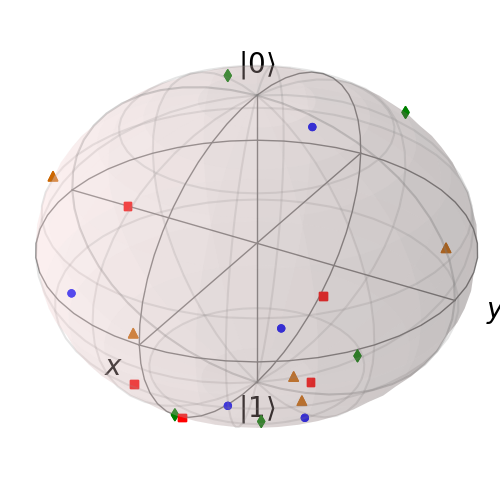
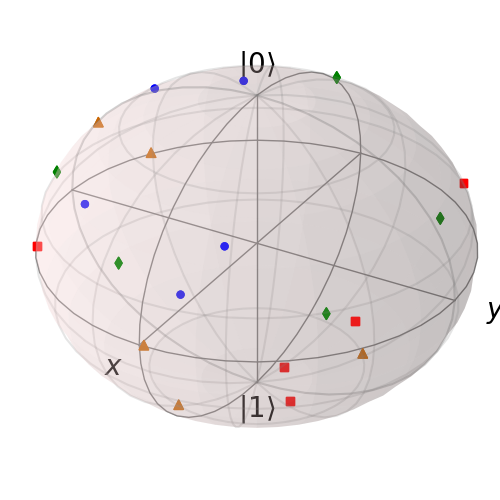
training.py major modification, class Training created BlochSphere plot in training.py

diff --git a/qnn/embedding/training.py b/qnn/embedding/training.py
@@ -1,47 +1,86 @@
-from qnn.embedding.optimization import cost, g_finitedifference#, g_parametershift
+from qnn.embedding.optimization import cost, g_finitedifference, g_parametershift
 from qnn.embedding.circuits import Circuits
+from typing import List, Optional, Union
+from numpy import ndarray
 
-import time
-import progressbar
+import cirq
 import qutip as qt
 import matplotlib.pyplot as plt
 
-def train(circuits, lr, epsilon, epoch, params):
-    #params = np.random.normal(0, 2*np.pi, 80)
-    cs_func = Circuits(depth=4)
-    sample_vectors = cs_func.sample(cs=circuits, theta=params)
 
-    be = qt.Bloch()
-    for i in range(len(sample_vectors)):
-        be.add_states(qt.Qobj(inpt=sample_vectors[i]), kind='point')
-    be.save(name='/qnn/embedding/data_tmp/before.png', format='png', dirc=None)
-    #be.show()
+class Training:
 
-    print(cost(sample_vectors))
-    cost_plot, epoch_plot = [], []
-    bar_func = progressbar.ProgressBar(maxval=epoch)
+    def __init__(self,
+                 circuits: List[cirq.Circuit],
+                 learning_rate: float,
+                 epsilon: float,
+                 epoch: int,
+                 initial_parameters: Union[ndarray, int, float, complex],
+                 plot_bloch: Optional[bool] = True,
+                 parameter_shift: Optional[bool] = False):
+        self.circuits = circuits
+        self.learning_rate = learning_rate
+        self.epsilon = epsilon
+        self.epoch = epoch
+        self.initial_parameters = initial_parameters
+        self.plot_bloch = plot_bloch
+        self.parameter_shift = parameter_shift
 
-    for o in range(epoch):
-      for i in range(len(params)):
-        params[i] = params[i].real - lr*g_finitedifference(i, circuits, params, epsilon).real
-        #params[i] = lr*params[i] + (1-lr)*(g_finitedifference(i, circuits, params, epsilon))**2
-        #params[i] = lr*params[i] + (1-lr)*(g_parametershift(i, circuits, params))**2
-        #print(params[i]-ols)
-      sample_vectors = cs_func.sample(circuits, params)
-      cost_plot.append(cost(sample_vectors).real)
-      print('Epoch:', o+1, 'Cost:', cost_plot[o])
-      epoch_plot.append(o)
-      if o != 1 or 0:
-          if cost_plot[o] < cost_plot[o-1]:
-              lr = lr + lr*2
-          else:
-              lr = lr
+    def train(self):
+        cs_func = Circuits(depth=4)
+        sample_vectors = cs_func.sample(cs=self.circuits, theta=self.initial_parameters)
 
-    af = qt.Bloch()
-    for i in range(len(sample_vectors)):
-        af.add_states(qt.Qobj(inpt=sample_vectors[i]), kind='point')
-    af.save(name='/qnn/embedding/data_tmp/after.png', format='png', dirc=None)
-    #af.show()
+        if self.plot_bloch:
+            be = qt.Bloch()
+            for i in range(len(sample_vectors)):
+                be.add_states(qt.Qobj(inpt=sample_vectors[i]), kind='point')
+            be.save(name='/Users/usuario/Desktop/QIT/QNNs/qnn/embedding/data_tmp/before.png', format='png')
+            #be.show()
 
-    plt.plot(epoch_plot, cost_plot)
-    plt.show()
+        self.cost_plot, self.epoch_plot, self.params_plot = [], [], []
+        #bar_func = progressbar.ProgressBar(maxval=self.epoch)
+
+        params = self.initial_parameters
+        lr = self.learning_rate
+        for o in range(self.epoch):
+            for i in range(len(params)):
+                if self.parameter_shift:
+                    params[i] = lr*params[i] + (1-lr)*(g_parametershift(i, self.circuits, params))**2
+                else:
+                    params[i] = params[i].real - lr * g_finitedifference(i, self.circuits, params, self.epsilon).real
+
+            sample_vectors = cs_func.sample(self.circuits, params)
+            self.cost_plot.append(cost(sample_vectors))
+            self.epoch_plot.append(o)
+            self.params_plot.append(params)
+            print('Epoch:', o, 'Cost:', self.cost_plot[o])
+
+            if o != 1 or 0:
+                if self.cost_plot[o] < self.cost_plot[o - 1]:
+                    lr = lr + lr*2
+                else:
+                    lr = lr
+
+        if self.plot_bloch:
+            af = qt.Bloch()
+            for i in range(len(sample_vectors)):
+                af.add_states(qt.Qobj(inpt=sample_vectors[i]), kind='point')
+            af.save(name='/Users/usuario/Desktop/QIT/QNNs/qnn/embedding/data_tmp/after.png', format='png')
+            #af.show()
+
+        plt.plot(self.epoch_plot, self.cost_plot)
+        plt.show()
+        return self.cost_plot
+
+    def minima(self):
+        min_i = 0
+        min_cost = self.cost_plot[0]
+        for i in range(len(self.cost_plot)):
+            if self.cost_plot[i] < min_cost:
+                min_cost = self.cost_plot[i]
+                min_i = i
+
+        print('min COST:', min_cost)
+        print('min EPOCH:', min_i)
+        print('min PARAM:', self.params_plot[min_i])
+        return self.params_plot[min_i], min_cost

diff --git a/qnn/embedding/embeddings.py b/qnn/embedding/embeddings.py
@@ -1,29 +1,31 @@
 ##
 import numpy as np
 
-from qnn.embedding.generate_data import GenerateData
+from qnn.embedding.generate_data import GenerateDataRandomNormal
 from qnn.embedding.circuits import Circuits
-from qnn.embedding.training import train
+from qnn.embedding.training import Training
+
 ##
 data_p = 20
 dev = .2
 
-gd_func = GenerateData(
+gd_func = GenerateDataRandomNormal(
 	total_data_points=data_p,
 	deviation=dev)
 
 dict = gd_func.gen()
 ##
 gd_func.plot(dict)
-
 ##
 cs_func = Circuits(
-	depth= 4)
+	depth=4)
 cs = cs_func.create(dict.values[0])
-theta_xd = np.random.normal(0, 2*np.pi, 80)
-sample_vectors = cs_func.sample(cs, theta_xd)
-#print('initial vectors:', sample_vectors)
-
 ##
-parameters = np.random.normal(0, 2*np.pi, 80)
-train(cs, 500, .001, 8, parameters)
+parameters = np.random.normal(0, 2 * np.pi, 80)
+tr = Training(circuits=cs,
+              learning_rate=500,
+              epsilon=.001,
+              epoch=15,
+              initial_parameters=parameters)
+tr.train()
+tr.minima()

diff --git a/qnn/embedding/generate_data.py b/qnn/embedding/generate_data.py
@@ -3,7 +3,7 @@ import pandas as pd
 import matplotlib.pyplot as plt
 
 
-class GenerateData():
+class GenerateDataRandomNormal():
 
 	def __init__(self,
 	             total_data_points: int,
